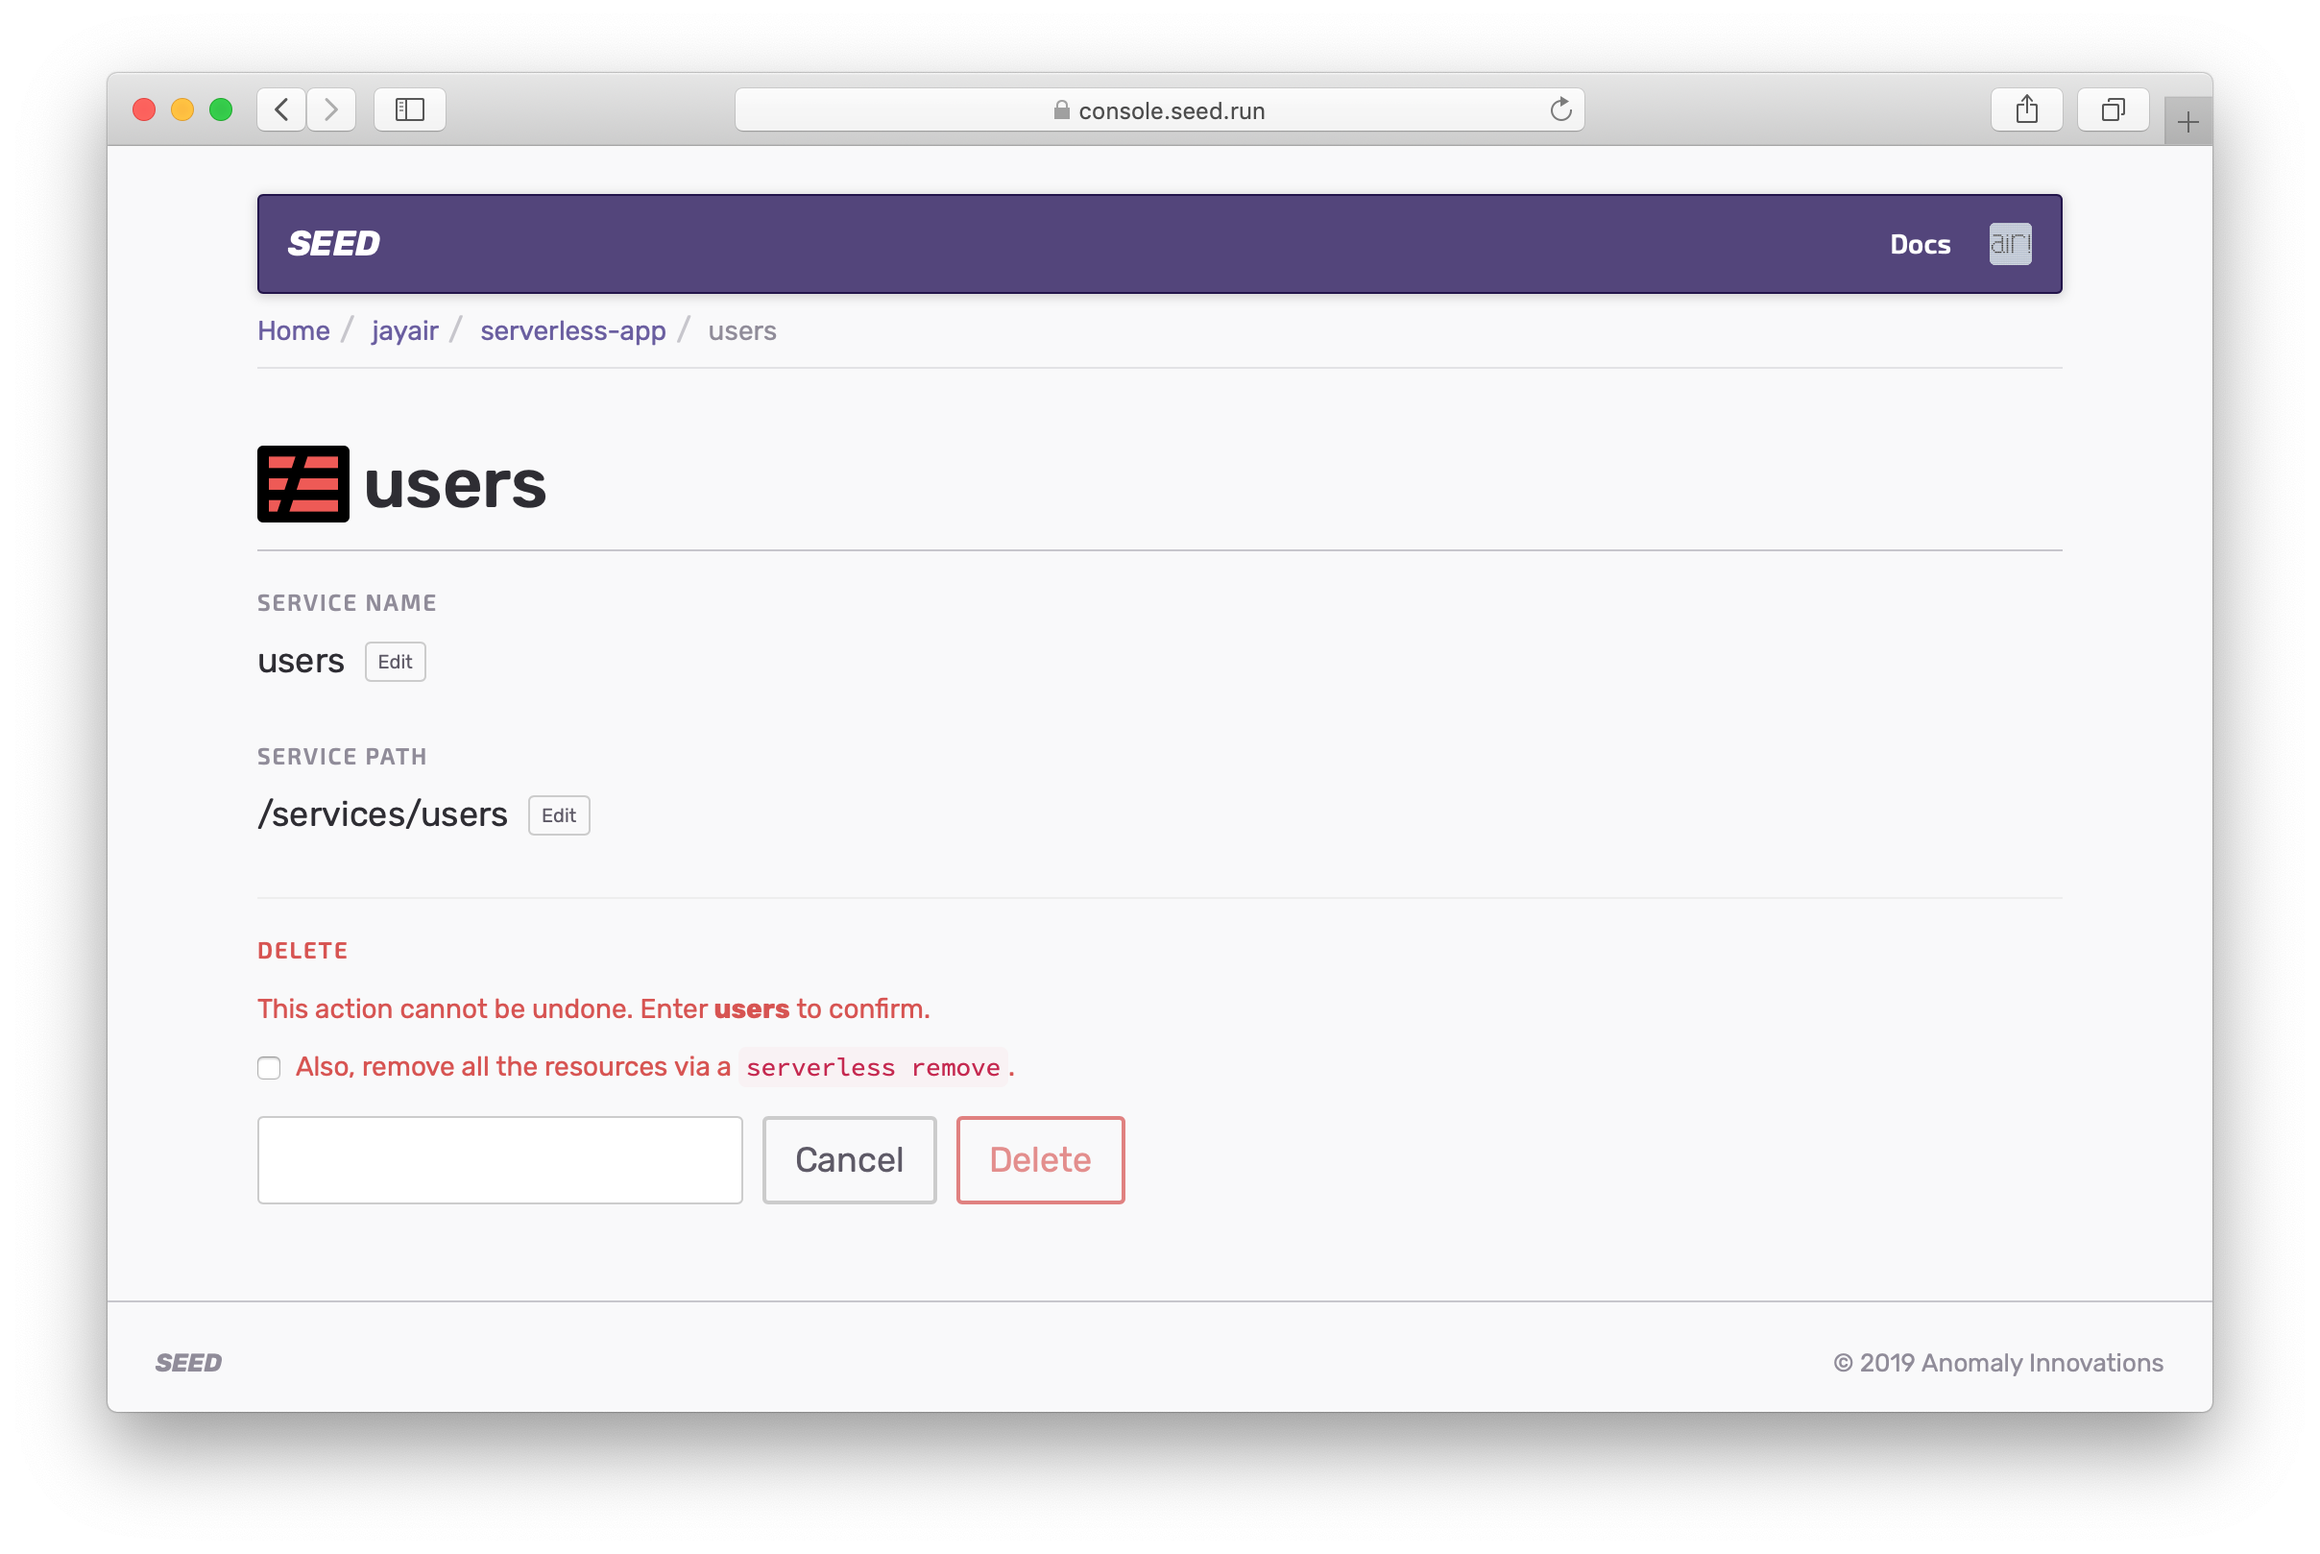
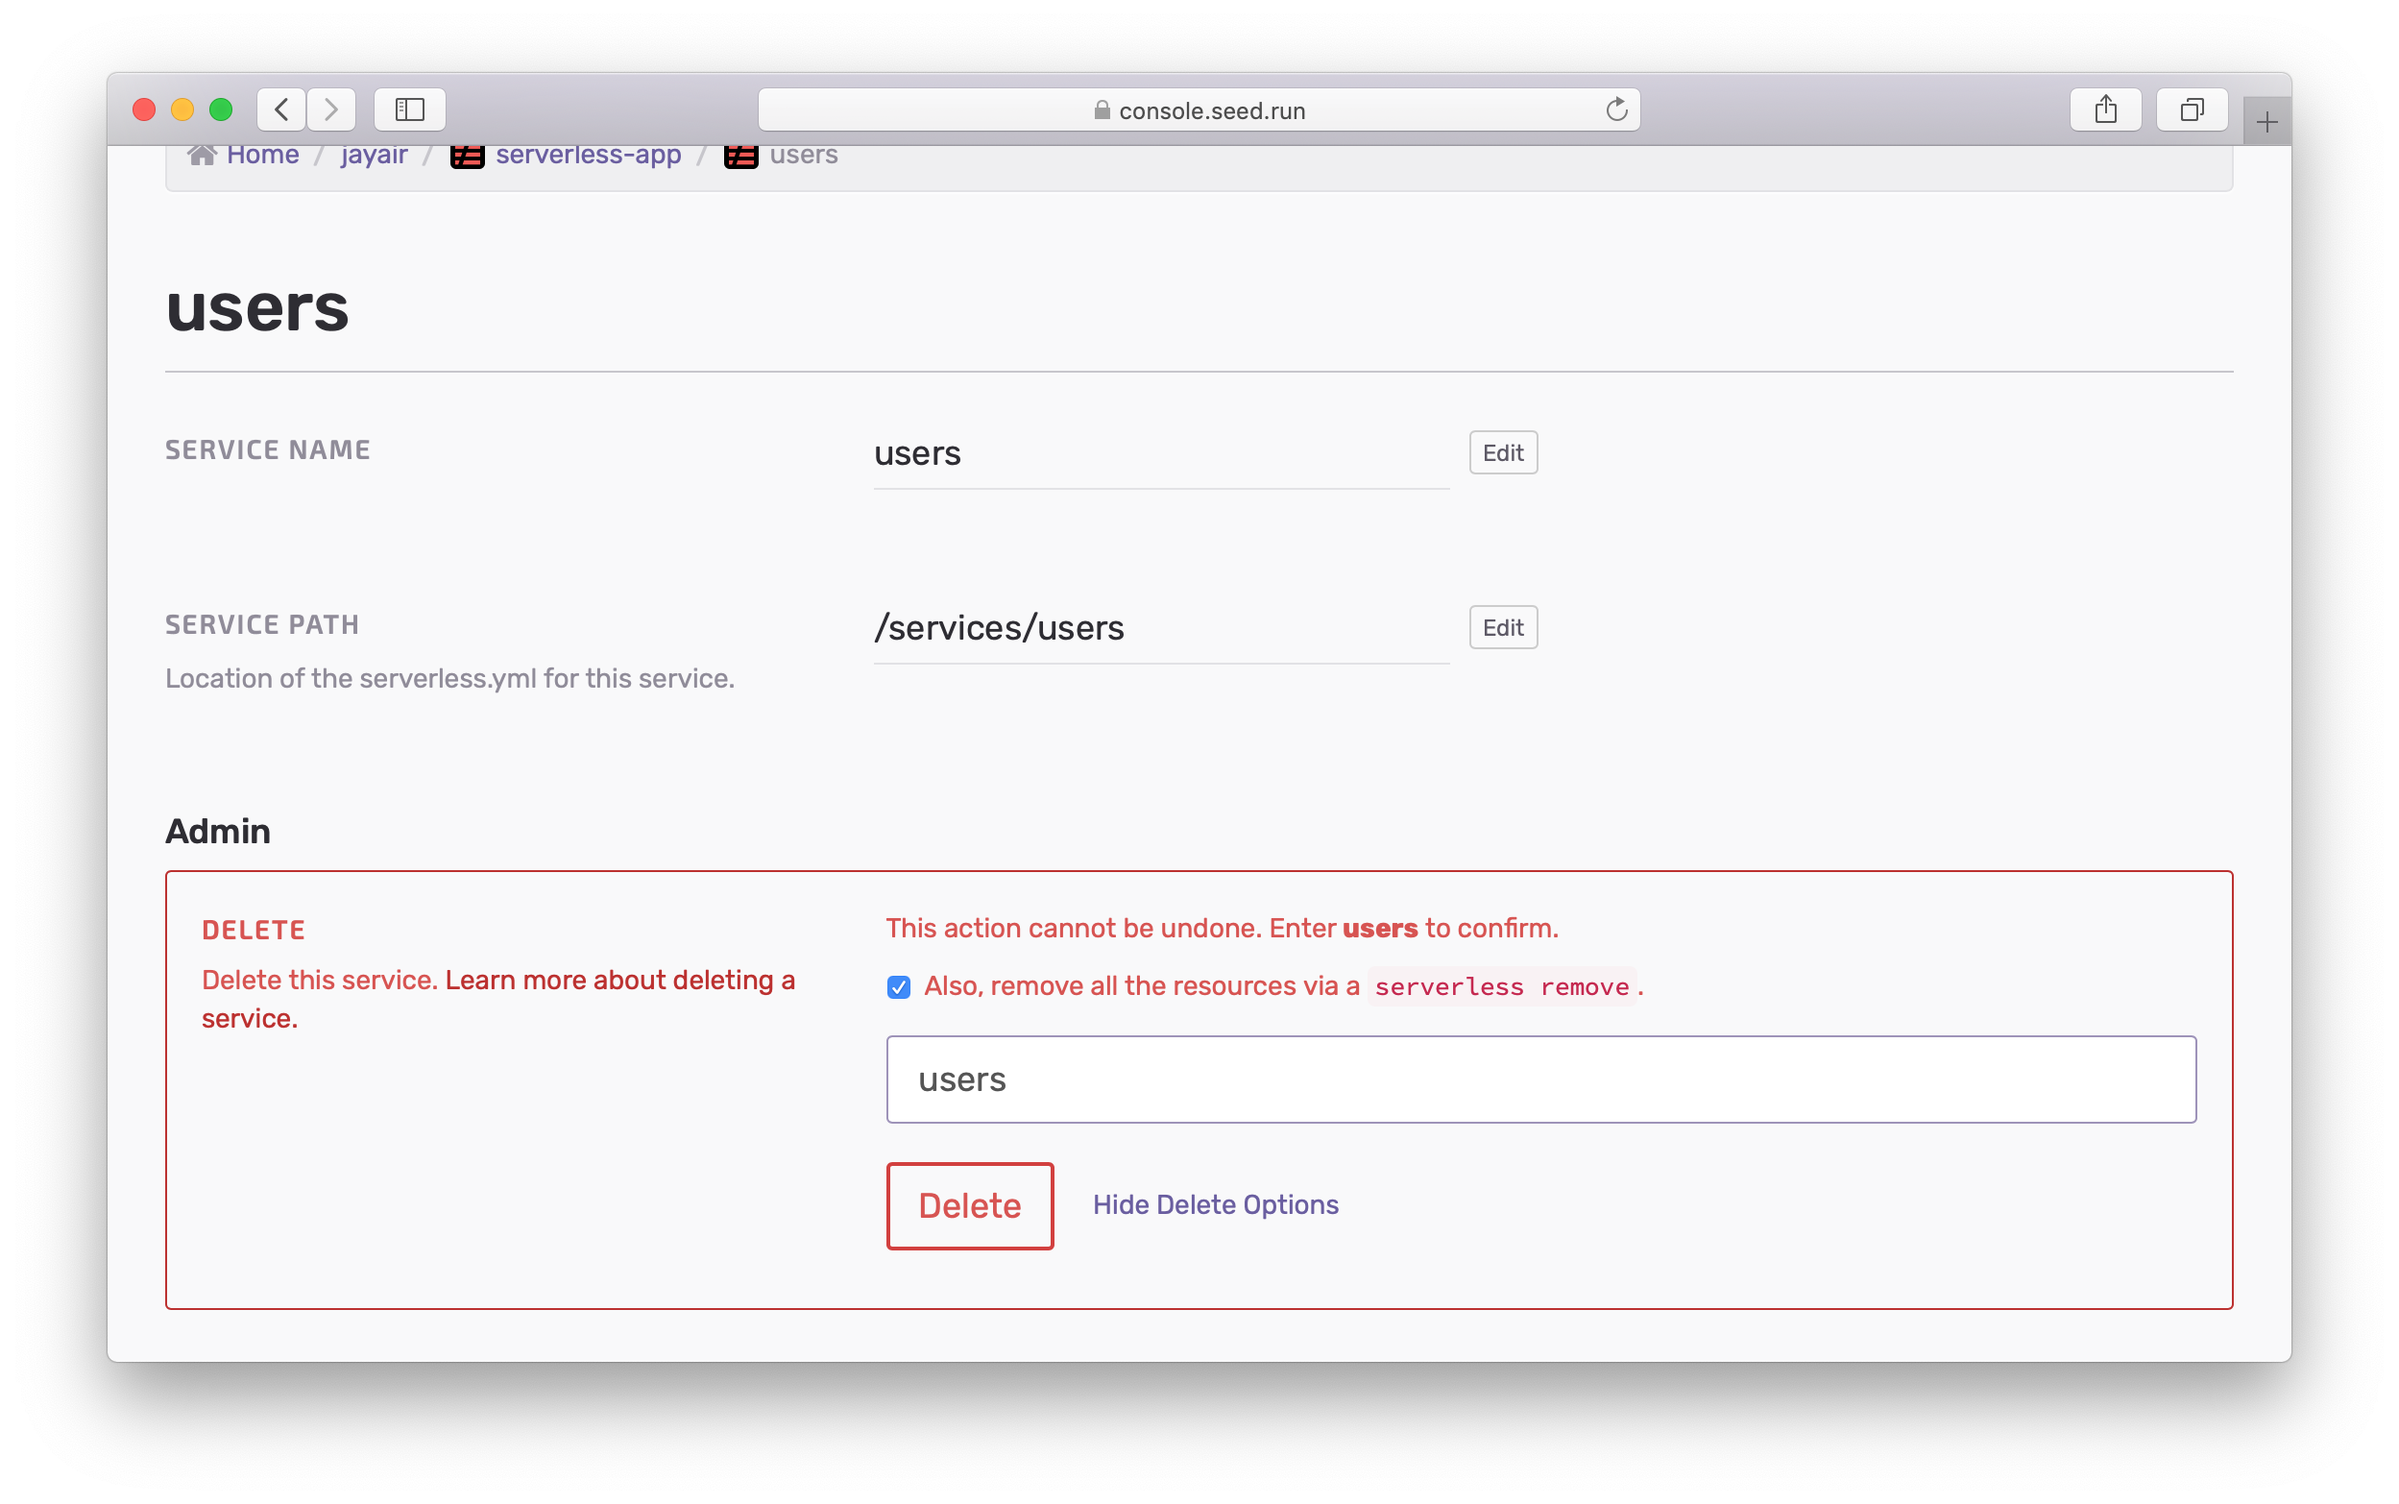
Adding post on auto-remove improvements and fixing doc

diff --git a/_posts/2019-09-06-auto-remove-stage-improvements.md b/_posts/2019-09-06-auto-remove-stage-improvements.md
@@ -1,0 +1,26 @@
+---
+layout: post
+title: Auto-remove stage improvements
+categories: news
+author: jack
+---
+
+We've made a few changes to make the process of auto-removing stages far more stable and robust.
+
+![Seed auto-remove stage on PR close](/assets/blog/auto-remove-stage-improvements/seed-auto-remove-stage-on-pr-close.png)
+
+Stages in Seed can be automatically removed when you close a PR or delete a branch. However if the removal process fails, you might end up with a large number of these half-removed stages in your Seed dashboard. Seed allows you to manually remove these stages but we want to try and make sure that the removal process is as robust as possible.
+
+We are rolling out a couple of improvements to make this happen:
+
+- Remove the services in the correct order
+
+  The biggest change in this update affects monorepo Serverless apps [with service dependencies]({% link _docs/configuring-deploy-phases.md %}). Seed will now remove your services in the **reverse** order. For example assume your services; `serviceA`, `serviceB`, and `serviceC` are deployed in the following order: `serviceA` > `serviceB` > `serviceC`. When a stage is removed, they'll be removed in reverse; `serviceC` > `serviceB` > `serviceA`. This is to handle the case where a service might be referencing a resource from one that was deployed before it. 
+
+- Double-check the stack removal
+
+  Sometimes the `serverless remove` command returns a success status even though the removal fails. In this case the stage will be marked as failed to remove. This specifically happens when a stack has an export value that is in use by another service. Serverless Framework marks the removal as a success even though CloudFormation fails to remove the stack.
+
+- General stability related fixes
+
+We hope these changes fix most of the auto-remove issues that people are running into. Making this process robust is necessary to fully automate [a PR based development workflow]({% link _docs/working-with-pull-requests.md %}) for Serverless apps.

diff --git a/_docs/deleting-resources.md b/_docs/deleting-resources.md
@@ -15,11 +15,7 @@ Here you are asked to enter the app name to confirm deleting the app.
 
 ![App name to confirm deleting app](/assets/docs/deleting-resources/app-name-to-confirm-deleting-app.png)
 
-Note that, by default this only **removes the app from Seed**.
-
-To remove the resources that were deployed as a part of this app (in all of its stages and services), you'd need to select the checkbox.
-
-![Select delete resources checkbox](/assets/docs/deleting-resources/select-delete-resources-checkbox.png)
+Note that, by default this removes the app **from Seed** and **from AWS**. To remove the app only from Seed, you'd need to deselect the checkbox.
 
 Selecting this checkbox does the following for the respective cases via a set of `serverless remove` commands:
 
@@ -39,4 +35,10 @@ For a service, head over to the service.
 
 ![Removing a service](/assets/docs/deleting-resources/removing-a-serivce.png)
 
-So if you are looking to delete an app, stage, or service; you need to figure out if you are trying to just remove it from Seed or if you are trying to remove the deployed AWS resources. And remember that by default it only removes it from Seed.
+So if you are looking to delete an app, stage, or service; you need to figure out if you are trying to just remove it from Seed or if you are trying to remove the deployed AWS resources.
+
+### Removing a monorepo app
+
+If your app has multiple services that [are deployed in phases]({% link _docs/configuring-deploy-phases.md %}), Seed will **remove them in the reverse order**.
+
+To understand how this works, it helps to look at an example. Let's assume your services; `serviceA`, `serviceB`, and `serviceC` are deployed in the following order: `serviceA` > `serviceB` > `serviceC`. When a stage is removed, they'll be removed in reverse; `serviceC` > `serviceB` > `serviceA`. This is to handle the case where a service might be referencing a resource from one that was deployed before it. 
